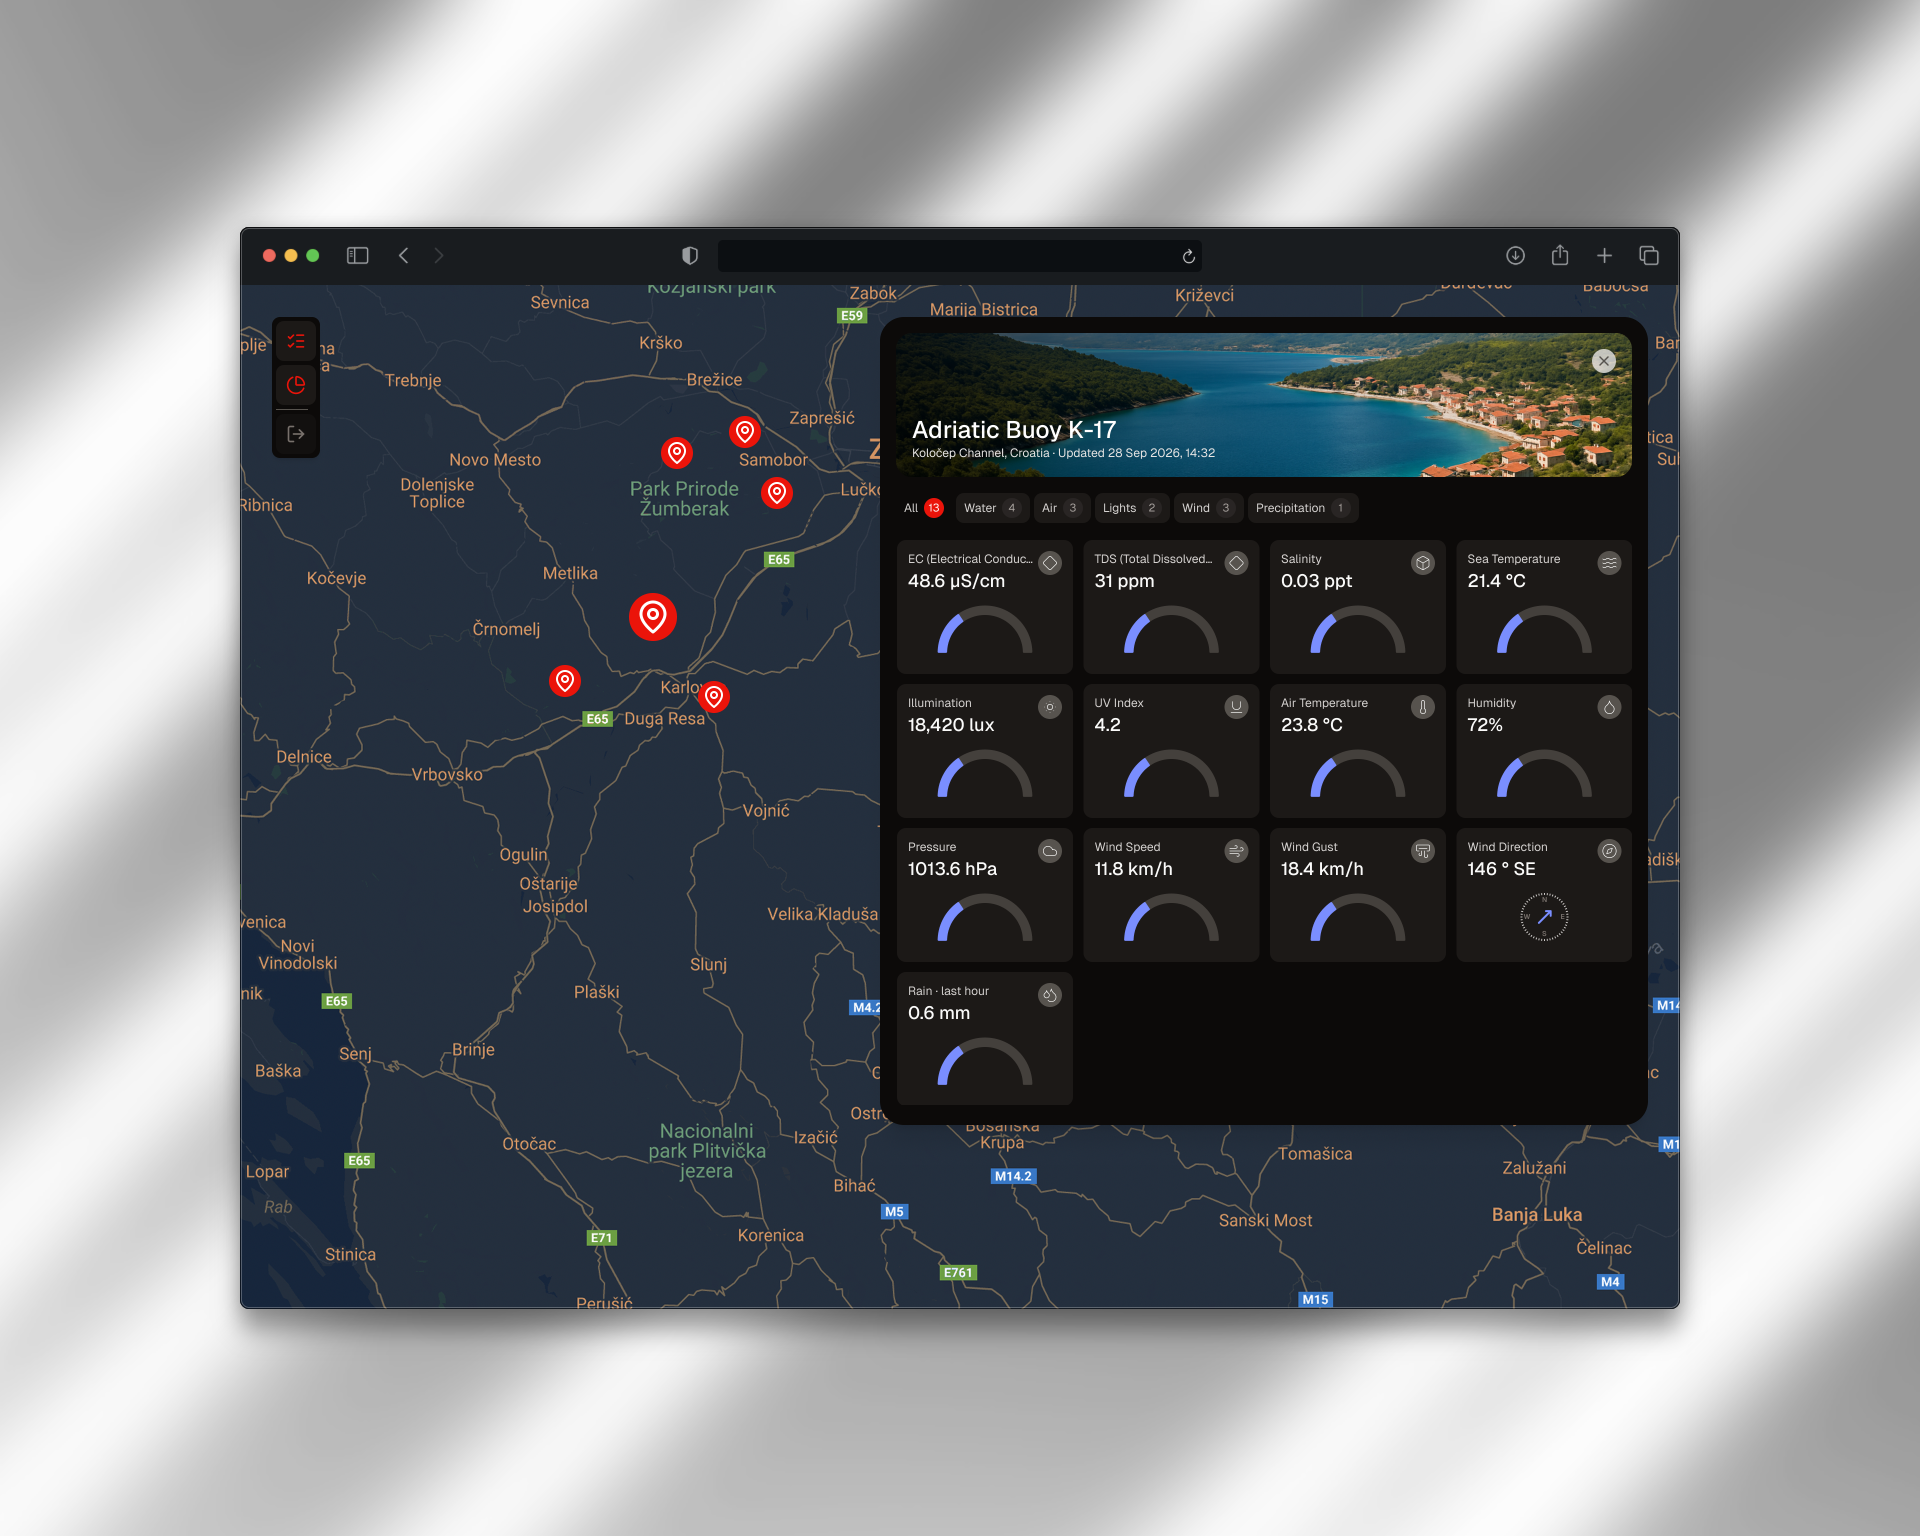
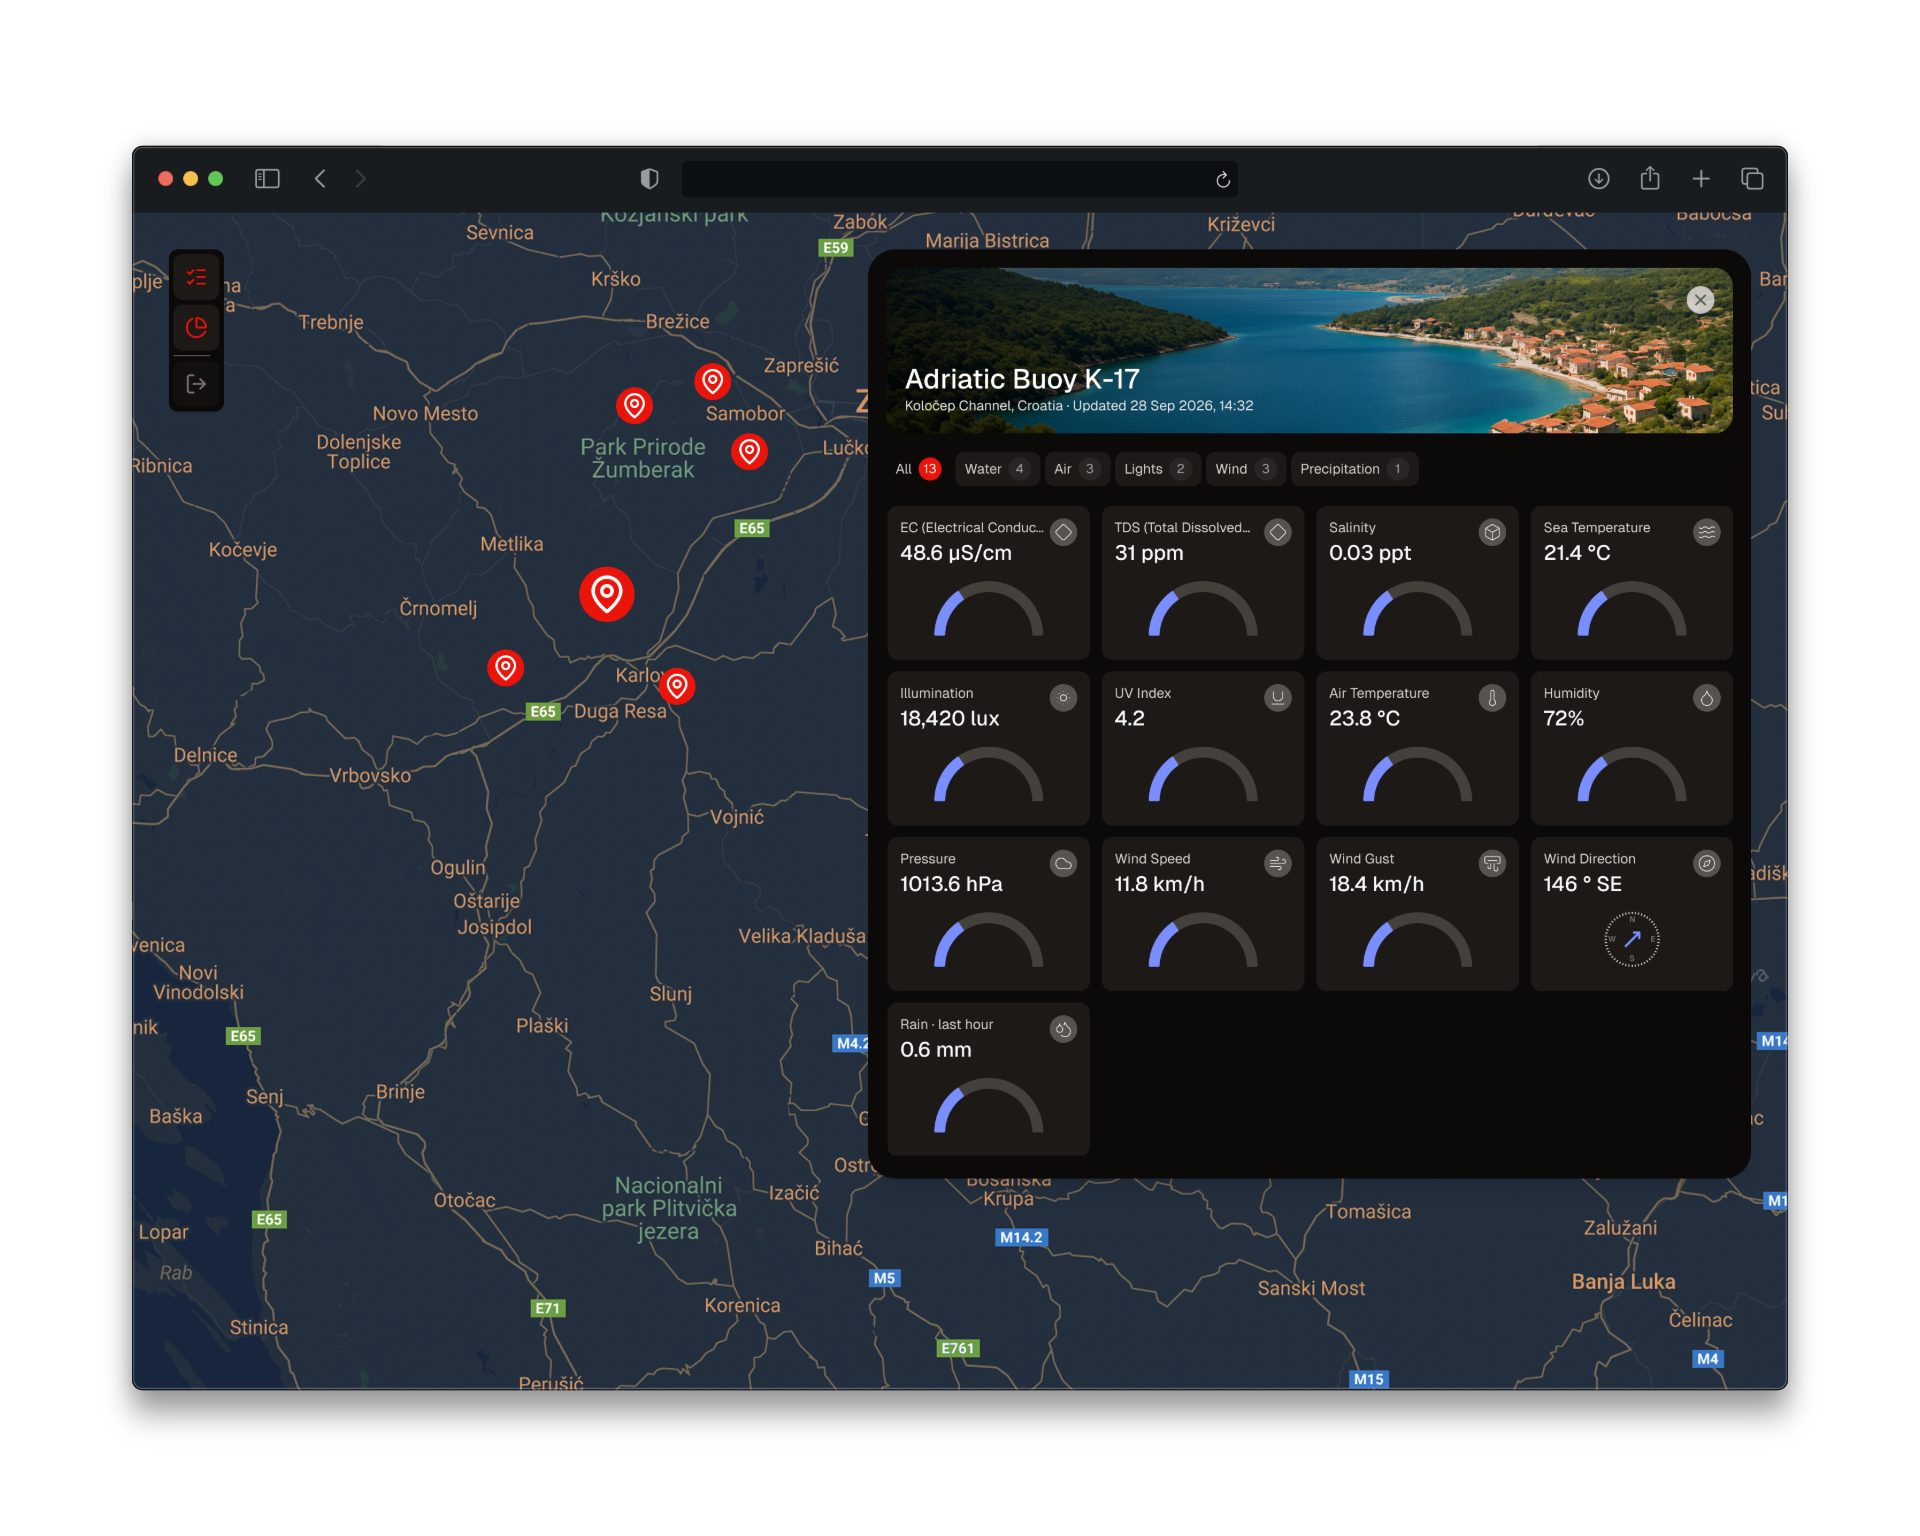
Превью экомониторинга — мокап с прозрачным фоном
Окно браузера без фона-тени: маска .fade-edges больше не нужна, убрана.

diff --git a/src/data/cases.ts b/src/data/cases.ts
@@ -252,17 +252,17 @@ export const caseStudies: CaseStudy[] = [
     preview: {
       src: ecoPreview,
       alt: "Кейс: платформа экомониторинга — карта с датчиками и панель буя в окне браузера",
-      // Мокап 1920×1536: окно браузера — 75% ширины файла (x 240–1680,
-      // y 227–1308), вокруг полупрозрачная тень. В карточке по центру:
-      // при 120% окно — 90% ширины плашки. Край тени гасит fade-edges.
-      class: "fade-edges absolute left-1/2 top-1/2 h-auto w-[120%] max-w-none -translate-x-1/2 -translate-y-1/2",
-      widths: [580, 1160],
-      sizes: "(min-width: 1024px) 580px, 120vw",
+      // Мокап 1920×1536, фон прозрачный: окно браузера — 86% ширины файла
+      // (x 132–1787, y 146–1389), вокруг мягкая тень. В карточке по центру:
+      // при 104.4% окно — 90% ширины плашки.
+      class: "absolute left-1/2 top-1/2 h-auto w-[104.4%] max-w-none -translate-x-1/2 -translate-y-1/2",
+      widths: [500, 1000],
+      sizes: "(min-width: 1024px) 500px, 105vw",
       // В слайдере как ноутбук: окно 88% ширины, верх на 12px, низ за краем.
-      // Сдвиг на 14.8% своей высоты — поле над окном в файле.
+      // Сдвиг на 9.5% своей высоты — поле над окном в файле.
       hero: {
-        class: "absolute left-1/2 top-3 h-auto w-[117.3%] max-w-none -translate-x-1/2 -translate-y-[14.8%]",
-        width: 488,
+        class: "absolute left-1/2 top-3 h-auto w-[102.1%] max-w-none -translate-x-1/2 -translate-y-[9.5%]",
+        width: 424,
       },
     },
   }),

diff --git a/src/styles/global.css b/src/styles/global.css
@@ -215,15 +215,4 @@ html:not(.js) [data-slider-controls] {
     from { transform: translateX(0); }
     to   { transform: translateX(-50%); }
   }
-
-  /* Края картинки растворяются в плашке. У мокапов shots.so фон —
-     полупрозрачная тень до 50%, и если кадр меньше плашки, его граница
-     видна внутри стекла. Маска гасит только внешние 11–13%: окно
-     браузера в таких мокапах начинается дальше от края и остаётся целым. */
-  .fade-edges {
-    mask-image:
-      linear-gradient(to right, transparent, #000 11%, #000 89%, transparent),
-      linear-gradient(to bottom, transparent, #000 13%, #000 87%, transparent);
-    mask-composite: intersect;
-  }
 }

diff --git a/PLAN.md b/PLAN.md
@@ -1013,12 +1013,12 @@ Figma MCP с масштабом 2 (2880×2048). Обычный скриншот 
 Старая нарезка галереи удалена (есть в истории git).
 
 **Превью** (слайдер героя, карточка на главной, «Другие проекты») —
-мокап `670shots_so.png` → `preview.png` (1920×1536): окно браузера с картой
-и панелью буя, вокруг полупрозрачная тень shots.so (альфа до 50%).
-В карточке окно по центру, 90% ширины плашки. Кадр ниже плашки по высоте,
-и граница тени была бы видна в стекле — её гасит маска `.fade-edges`
-(внешние 11–13% кадра, окно не задевает). В слайдере окно 88% ширины,
-верх на 12px, низ за краем, как у ноутбука; кадр перекрывает место целиком.
+мокап `270shots_so.png` → `preview.png` (1920×1536, прозрачный фон):
+окно браузера с картой и панелью буя, 86% ширины файла, мягкая тень.
+В карточке окно по центру, 90% ширины плашки. В слайдере окно 88% ширины,
+верх на 12px, низ за краем, как у ноутбука. (Промежуточный вариант
+`670shots_so.png` был с полупрозрачным фоном-тенью, его край приходилось
+гасить маской; в этом файле фон чистый, маска убрана.)
 Прежний мокап-превью (бывшая обложка `281shots_so.png`) удалён.
 
 **Обложка заменена** на кадр `969_1x_shots_so.png` → `cover.png`
